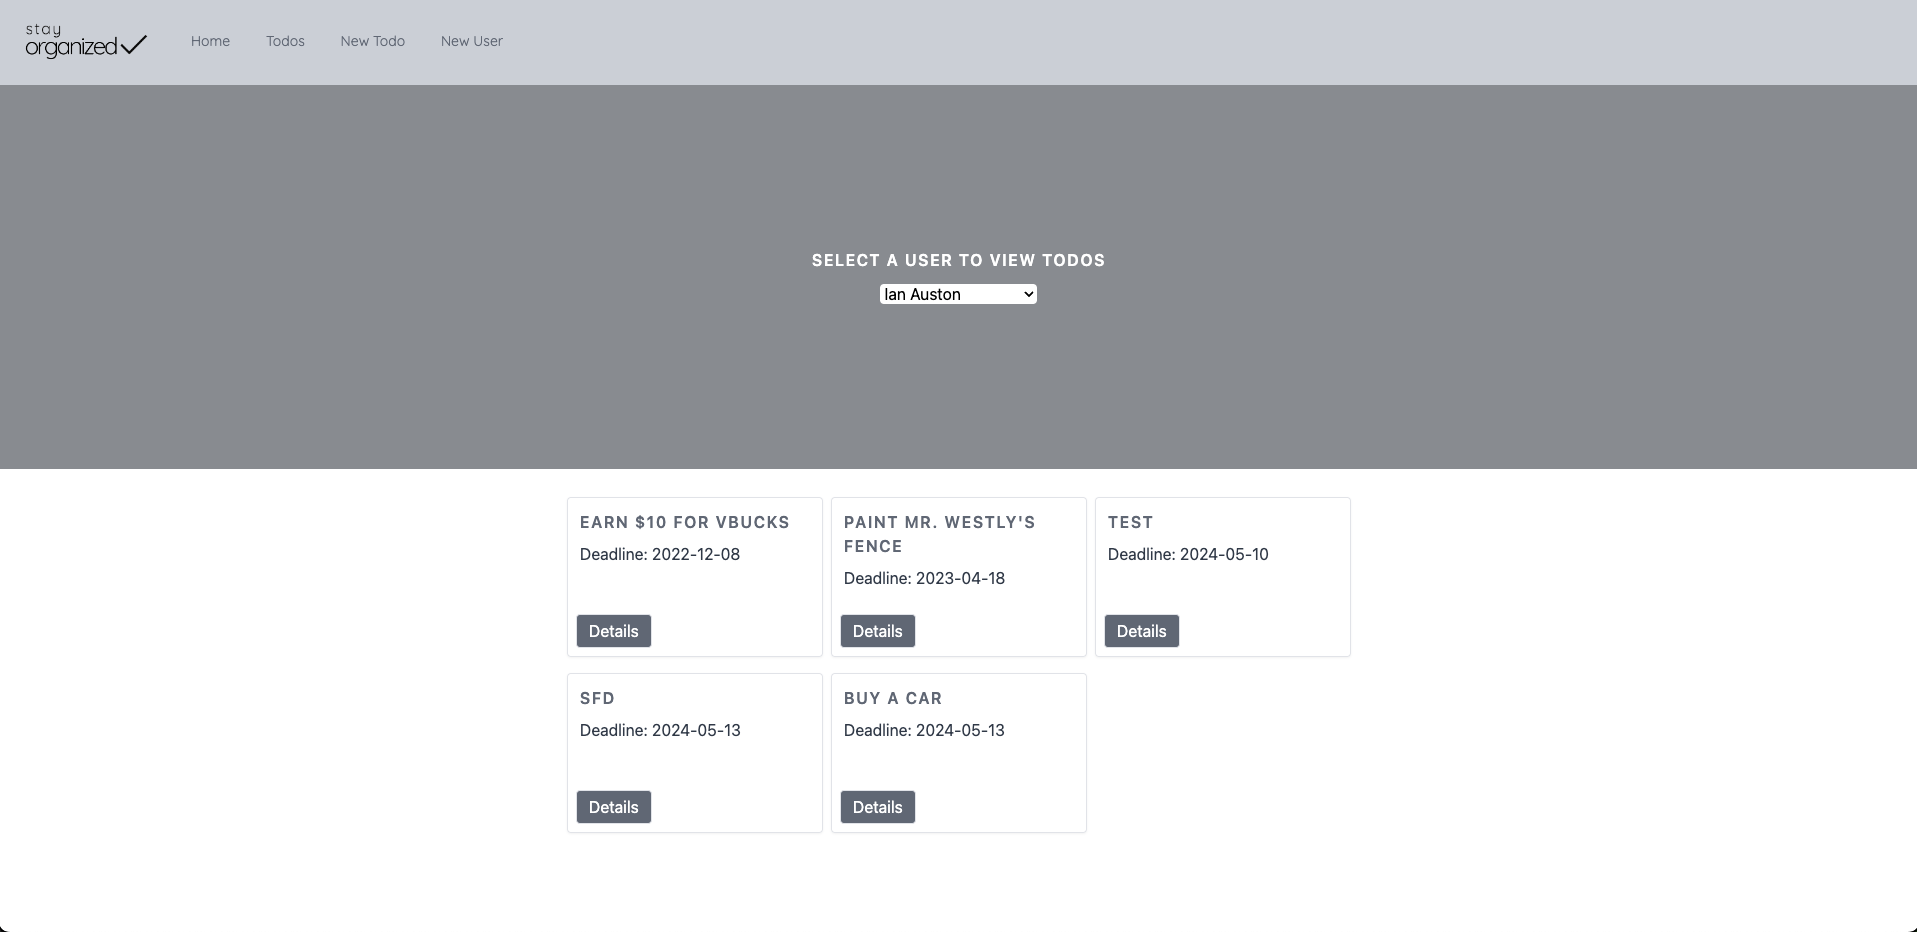
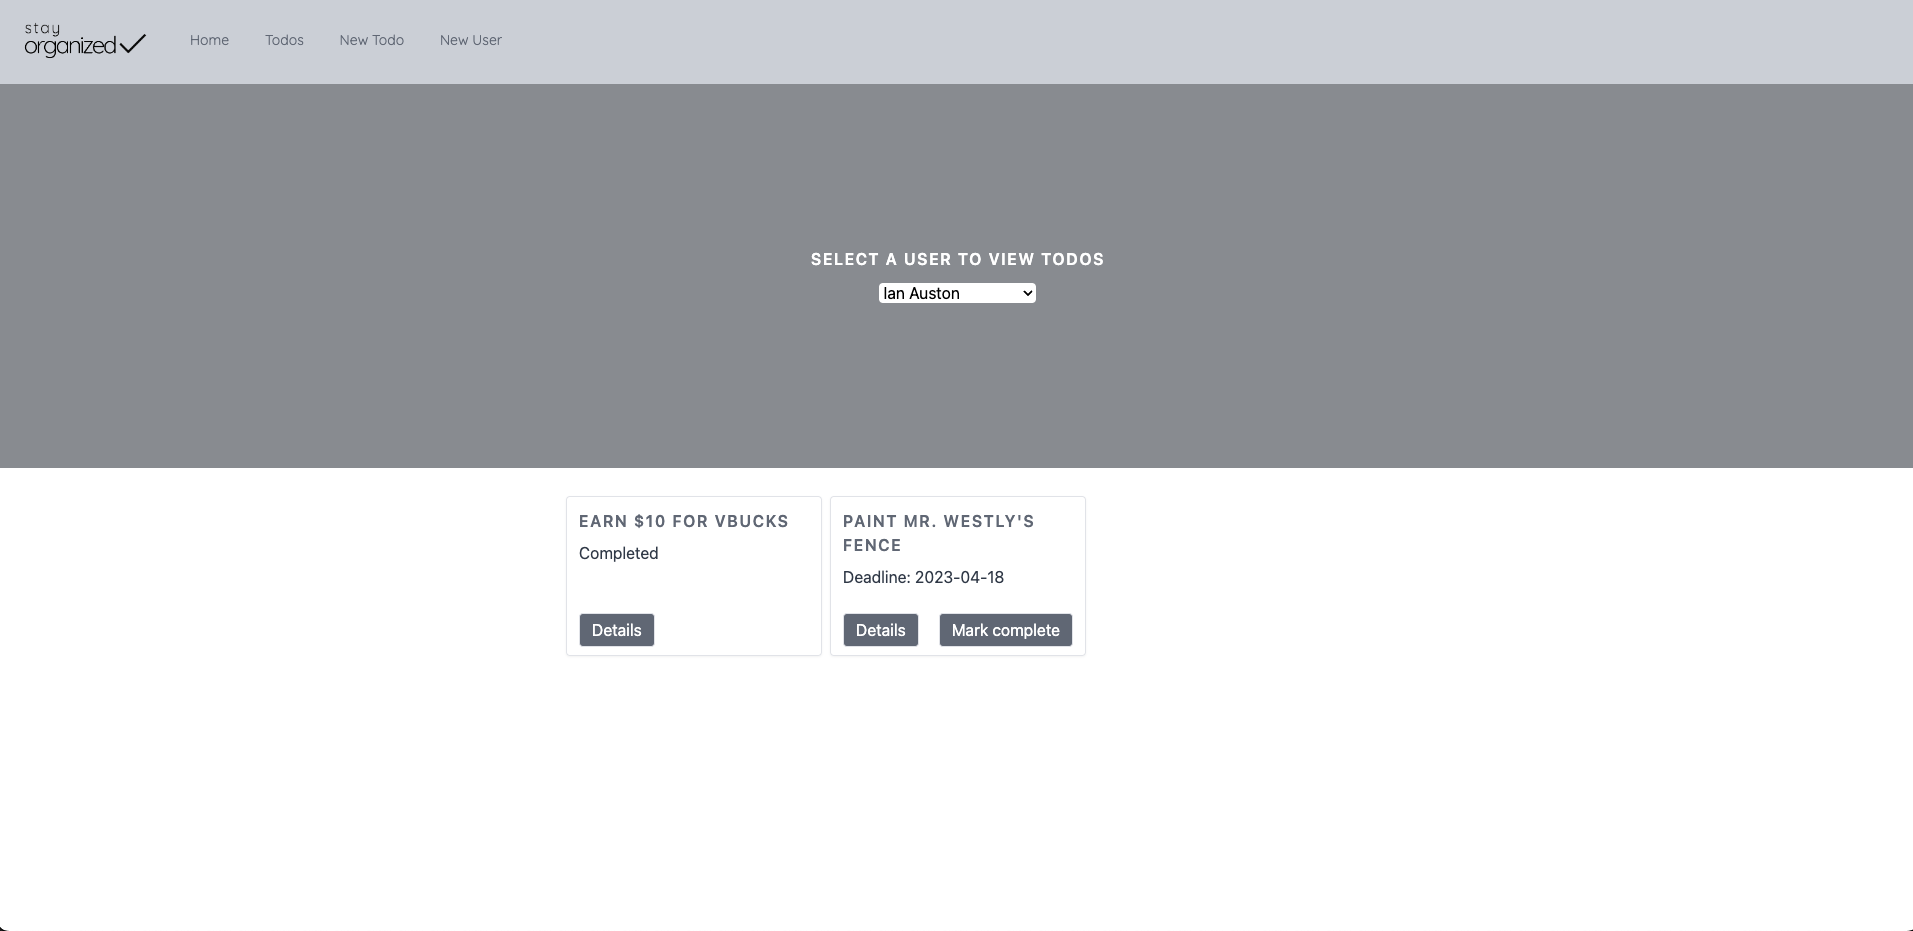
edited readme

diff --git a/README.md b/README.md
@@ -17,7 +17,7 @@ This project is a simple Todo application where users can create an account, cre
 ![Home Page](/public/images/home.png)
 
 ### Todos
-- `todos.html`: This page displays a list of all todos. Users can click on the details button to view more details.
+- `todos.html`: This page displays a list of all todos. Users can click on the details button to view more details, or click the mark complete button to complete the task.
 ![Todos Page](/public/images/todos.png)
 
 ### New Todo
